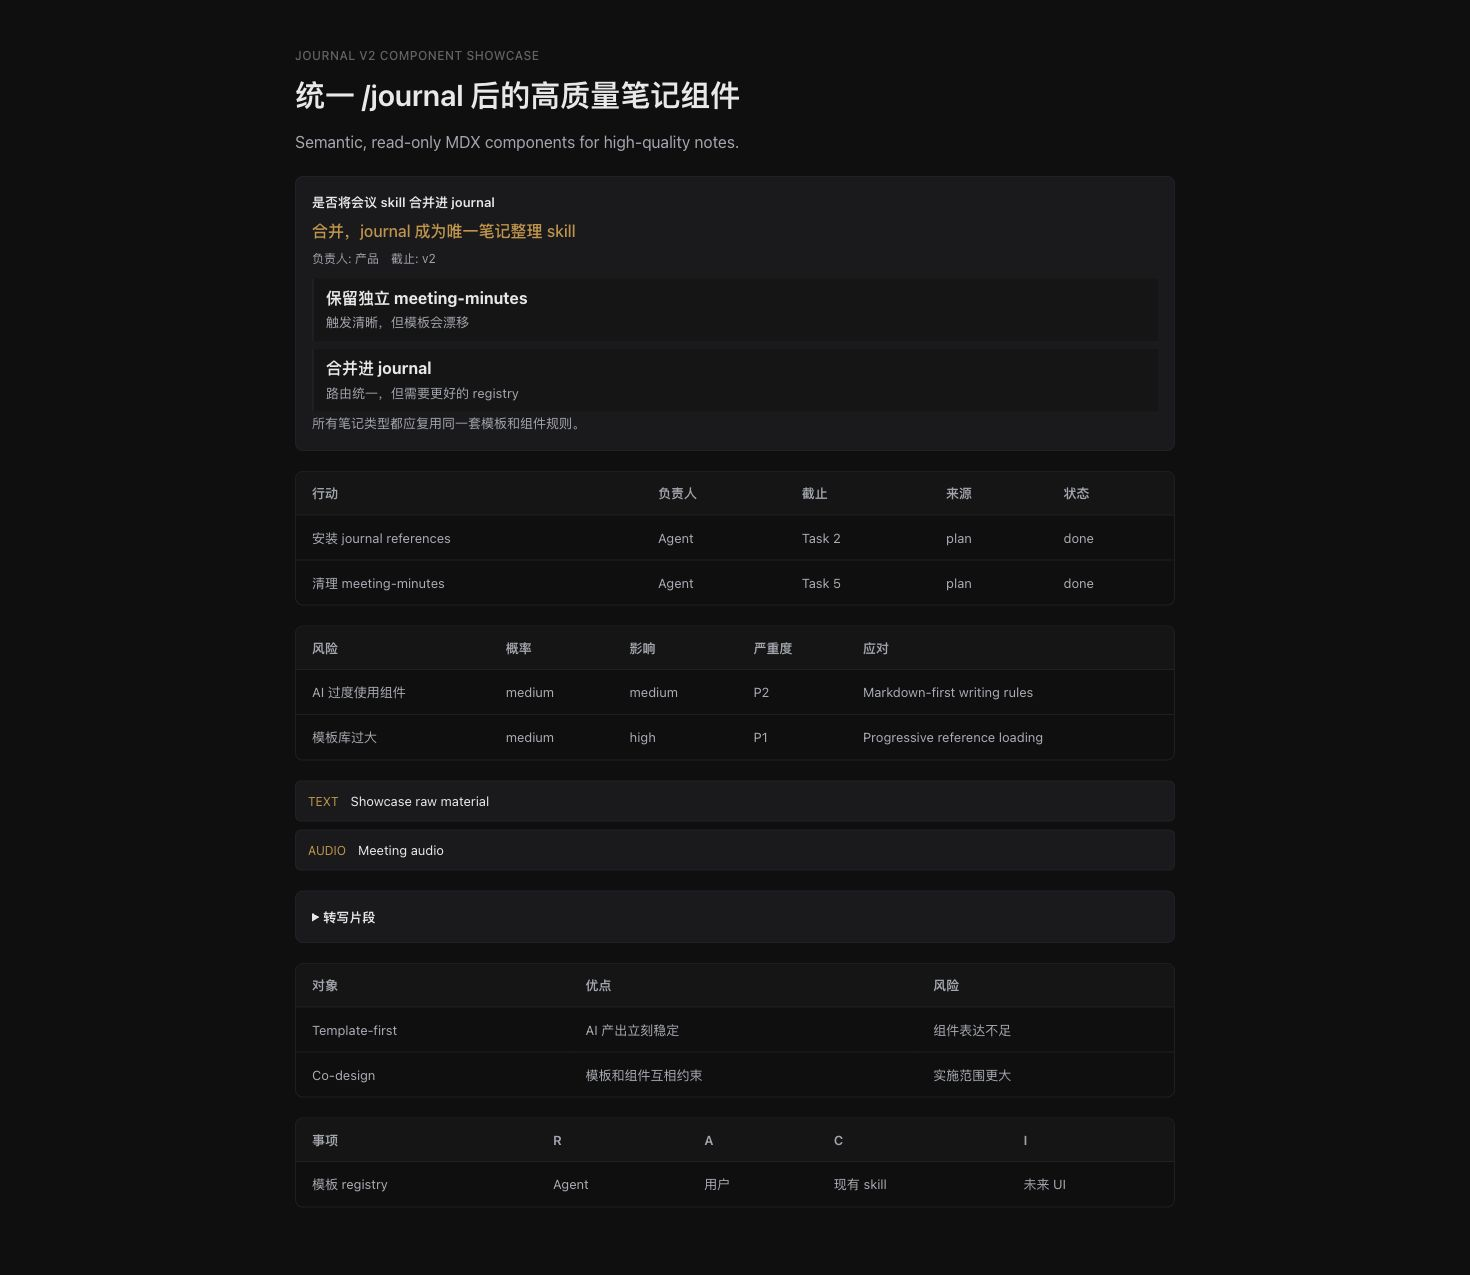
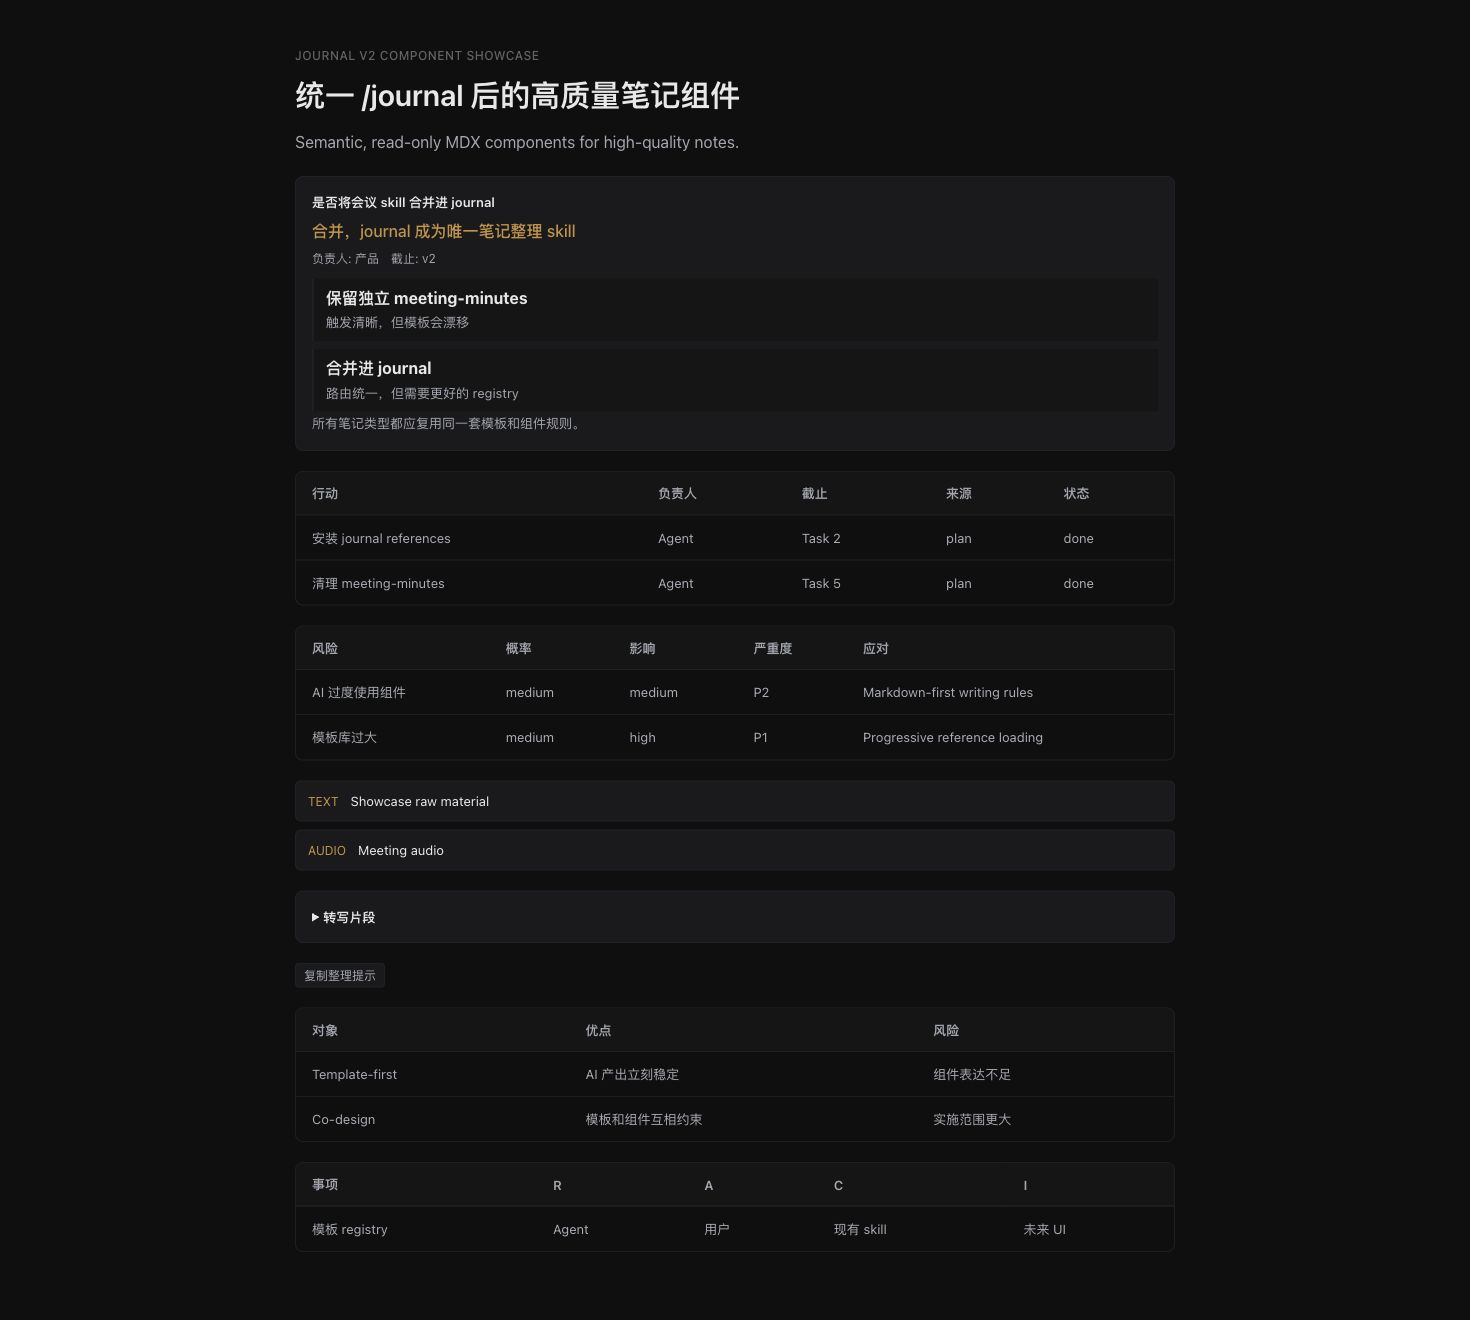
feat: add journal MDX copy affordance

diff --git a/src/tests/MdxRenderer.test.tsx b/src/tests/MdxRenderer.test.tsx
@@ -10,6 +10,8 @@ vi.mock('../lib/tauri', () => ({
   openFile: vi.fn(),
 }))
 
+const writeClipboardText = vi.fn()
+
 const compiledParagraph = `import { jsx as _jsx, jsxs as _jsxs } from "react/jsx-runtime";
 function _createMdxContent(props) {
   const _components = Object.assign({p: "p", strong: "strong"}, props.components);
@@ -51,6 +53,12 @@ describe('mdxRuntime', () => {
 describe('MdxRenderer', () => {
   beforeEach(() => {
     vi.mocked(compileMdx).mockReset()
+    writeClipboardText.mockReset()
+    writeClipboardText.mockResolvedValue(undefined)
+    Object.defineProperty(navigator, 'clipboard', {
+      value: { writeText: writeClipboardText },
+      configurable: true,
+    })
   })
 
   it('renders compiled MDX content', async () => {
@@ -97,5 +105,31 @@ export default MDXContent;`
     expect(handler).toHaveBeenCalled()
     expect(handler.mock.calls[0][0].detail.seconds).toBe(12)
     window.removeEventListener('mdx-media-seek', handler)
+  })
+
+  it('copies read-only MDX text affordances', async () => {
+    const compiledCopy = `import { jsx as _jsx } from "react/jsx-runtime";
+function _createMdxContent() {
+  return _jsx("button", {"data-copy-text": "关键结论", children: "复制"});
+}
+function MDXContent(props = {}) {
+  return _createMdxContent(props);
+}
+export default MDXContent;`
+    vi.mocked(compileMdx).mockResolvedValue(compiledCopy)
+    const handler = vi.fn()
+    window.addEventListener('mdx-copy', handler)
+
+    render(<MdxRenderer content="<button data-copy-text='关键结论'>复制</button>" />)
+
+    await waitFor(() => screen.getByText('复制'))
+    screen.getByText('复制').click()
+
+    await waitFor(() => {
+      expect(writeClipboardText).toHaveBeenCalledWith('关键结论')
+    })
+    expect(handler).toHaveBeenCalled()
+    expect(handler.mock.calls[0][0].detail.text).toBe('关键结论')
+    window.removeEventListener('mdx-copy', handler)
   })
 })

diff --git a/src/components/MdxRenderer.tsx b/src/components/MdxRenderer.tsx
@@ -117,7 +117,27 @@ export function MdxRenderer({ content, entryPath }: Props) {
 
   const handleClick = useCallback(
     async (e: React.MouseEvent<HTMLDivElement>) => {
-      const anchor = (e.target as HTMLElement).closest('a')
+      const target = e.target as HTMLElement
+      const copyControl = target.closest<HTMLElement>('[data-copy-text]')
+      if (copyControl) {
+        e.preventDefault()
+        const text = copyControl.getAttribute('data-copy-text') ?? ''
+        let copied = false
+        try {
+          await navigator.clipboard?.writeText(text)
+          copied = true
+        } catch {
+          copied = false
+        }
+        window.dispatchEvent(
+          new CustomEvent('mdx-copy', {
+            detail: { text, copied },
+          }),
+        )
+        return
+      }
+
+      const anchor = target.closest('a')
       if (!anchor) return
 
       const mediaSrc = anchor.getAttribute('data-media-src')

diff --git a/src/tests/MdxSemanticComponents.test.tsx b/src/tests/MdxSemanticComponents.test.tsx
@@ -2,6 +2,7 @@ import { describe, expect, it } from 'vitest'
 import { fireEvent, render, screen } from '@testing-library/react'
 import {
   ActionTable,
+  CopyButton,
   DecisionRecord,
   RiskMatrix,
   StatusBadge,
@@ -125,6 +126,13 @@ describe('semantic MDX components', () => {
     expect(screen.getByText('张三')).toBeTruthy()
     expect(screen.getByText('这里需要先试点。')).toBeTruthy()
     expect(screen.getByText('跳到 00:12')).toBeTruthy()
+  })
+
+  it('renders a copy affordance without editing note content', () => {
+    render(<CopyButton text="关键结论" label="复制结论" />)
+
+    const button = screen.getByRole('button', { name: '复制结论' })
+    expect(button.getAttribute('data-copy-text')).toBe('关键结论')
   })
 
   it('allows transcript details to expand and collapse', () => {

diff --git a/src/styles/mdx.css b/src/styles/mdx.css
@@ -1497,6 +1497,28 @@
   text-decoration: none;
   border-bottom: 1px solid color-mix(in srgb, var(--mdx-accent) 28%, transparent);
 }
+.mdx-copy-button {
+  display: inline-flex;
+  align-items: center;
+  min-height: 24px;
+  padding: 3px 8px;
+  border: 1px solid var(--mdx-border);
+  border-radius: 4px;
+  background: var(--mdx-surface);
+  color: var(--text-secondary);
+  font: inherit;
+  font-size: var(--text-xs);
+  cursor: pointer;
+  transition:
+    border-color 0.18s var(--ease-out),
+    color 0.18s var(--ease-out),
+    background-color 0.18s var(--ease-out);
+}
+.mdx-copy-button:hover {
+  border-color: color-mix(in srgb, var(--mdx-accent) 40%, var(--mdx-border));
+  color: var(--mdx-accent);
+  background: var(--mdx-surface-muted);
+}
 .mdx-transcript {
   margin: var(--space-5) 0;
   padding: var(--space-4);

diff --git a/src/components/mdx/index.ts b/src/components/mdx/index.ts
@@ -60,7 +60,7 @@ export {
 } from './semantic'
 
 // Sources and transcripts
-export { SourceCard, ReferenceList, Transcript, TimestampLink } from './source'
+export { SourceCard, ReferenceList, Transcript, TimestampLink, CopyButton } from './source'
 
 // ── Component map ─────────────────────────────────────────
 
@@ -102,7 +102,7 @@ import {
   EvidenceCard,
   QuoteCard,
 } from './semantic'
-import { SourceCard, ReferenceList, Transcript, TimestampLink } from './source'
+import { SourceCard, ReferenceList, Transcript, TimestampLink, CopyButton } from './source'
 
 export const mdxComponents = {
   Split,
@@ -170,4 +170,5 @@ export const mdxComponents = {
   ReferenceList,
   Transcript,
   TimestampLink,
+  CopyButton,
 }

diff --git a/src/components/mdx/source.tsx b/src/components/mdx/source.tsx
@@ -46,6 +46,22 @@ export function TimestampLink({
   )
 }
 
+export function CopyButton({
+  text,
+  label = '复制',
+  children,
+}: {
+  text: string
+  label?: string
+  children?: ReactNode
+}) {
+  return (
+    <button type="button" className="mdx-copy-button" data-copy-text={text}>
+      {children ?? label}
+    </button>
+  )
+}
+
 export interface TranscriptItem {
   speaker?: string
   time?: string

diff --git a/.agents/skills/journal/references/component-catalog.md b/.agents/skills/journal/references/component-catalog.md
@@ -2,29 +2,30 @@
 
 ## Existing Generic Components
 
-| Group | Components |
-|---|---|
-| Typography | `Section`, `Subtitle`, `Label`, `Divider` |
-| Layout | `Split`, `Columns`, `Column`, `Grid`, `Col`, `Flow`, `Stack` |
-| Display | `Stat`, `StatGroup`, `Table`, `Timeline`, `TagList`, `Progress`, `Avatar`, `AvatarGroup` |
-| Lists and cards | `Cards`, `Card`, `Options`, `Option`, `Kanban`, `Checklist`, `Counter`, `RatingBar` |
-| Context | `Callout`, `Quote`, `RelatedEntry`, `RelatedIdentity` |
+| Group              | Components                                                                                                                                                    |
+| ------------------ | ------------------------------------------------------------------------------------------------------------------------------------------------------------- |
+| Typography         | `Section`, `Subtitle`, `Label`, `Divider`                                                                                                                     |
+| Layout             | `Split`, `Columns`, `Column`, `Grid`, `Col`, `Flow`, `Stack`                                                                                                  |
+| Display            | `Stat`, `StatGroup`, `Table`, `Timeline`, `TagList`, `Progress`, `Avatar`, `AvatarGroup`                                                                      |
+| Lists and cards    | `Cards`, `Card`, `Options`, `Option`, `Kanban`, `Checklist`, `Counter`, `RatingBar`                                                                           |
+| Context            | `Callout`, `Quote`, `RelatedEntry`, `RelatedIdentity`                                                                                                         |
 | Media and diagrams | `AudioCard`, `VideoCard`, `ImageViewer`, `FileCard`, `BarChart`, `LineChart`, `PieChart`, `RadarChart`, `Mermaid`, `CanvasDiagram`, `Phone`, `DeviceShowcase` |
 
 ## Semantic Components
 
-| Component | Use when |
-|---|---|
-| `ActionTable` | actions have owner, deadline, source, or status |
-| `DecisionRecord`, `DecisionList` | a note must preserve decision context and tradeoffs |
-| `RiskMatrix` | risks need likelihood, impact, severity, and mitigation |
-| `SourceCard`, `ReferenceList` | source traceability is important |
-| `Transcript`, `TimestampLink` | transcript excerpts or media timestamps matter |
-| `InsightCard`, `EvidenceCard`, `QuoteCard` | research, learning, interview, and evidence-heavy notes |
-| `ComparisonMatrix`, `OptionMatrix` | evaluating products, options, competitors, or technical approaches |
-| `MilestoneTimeline`, `IncidentTimeline` | project milestones or incidents need sequence |
-| `RACI` | project or operation roles must be explicit |
-| `StatusBadge` | compact state labels improve scanning |
+| Component                                  | Use when                                                                                        |
+| ------------------------------------------ | ----------------------------------------------------------------------------------------------- |
+| `ActionTable`                              | actions have owner, deadline, source, or status                                                 |
+| `DecisionRecord`, `DecisionList`           | a note must preserve decision context and tradeoffs                                             |
+| `RiskMatrix`                               | risks need likelihood, impact, severity, and mitigation                                         |
+| `SourceCard`, `ReferenceList`              | source traceability is important                                                                |
+| `Transcript`, `TimestampLink`              | transcript excerpts or media timestamps matter                                                  |
+| `CopyButton`                               | exact quotes, prompts, commands, or reusable snippets should be copied without editing the note |
+| `InsightCard`, `EvidenceCard`, `QuoteCard` | research, learning, interview, and evidence-heavy notes                                         |
+| `ComparisonMatrix`, `OptionMatrix`         | evaluating products, options, competitors, or technical approaches                              |
+| `MilestoneTimeline`, `IncidentTimeline`    | project milestones or incidents need sequence                                                   |
+| `RACI`                                     | project or operation roles must be explicit                                                     |
+| `StatusBadge`                              | compact state labels improve scanning                                                           |
 
 ## Rule
 

diff --git a/src-tauri/resources/workspace-template/.claude/skills/journal/references/component-catalog.md b/src-tauri/resources/workspace-template/.claude/skills/journal/references/component-catalog.md
@@ -2,29 +2,30 @@
 
 ## Existing Generic Components
 
-| Group | Components |
-|---|---|
-| Typography | `Section`, `Subtitle`, `Label`, `Divider` |
-| Layout | `Split`, `Columns`, `Column`, `Grid`, `Col`, `Flow`, `Stack` |
-| Display | `Stat`, `StatGroup`, `Table`, `Timeline`, `TagList`, `Progress`, `Avatar`, `AvatarGroup` |
-| Lists and cards | `Cards`, `Card`, `Options`, `Option`, `Kanban`, `Checklist`, `Counter`, `RatingBar` |
-| Context | `Callout`, `Quote`, `RelatedEntry`, `RelatedIdentity` |
+| Group              | Components                                                                                                                                                    |
+| ------------------ | ------------------------------------------------------------------------------------------------------------------------------------------------------------- |
+| Typography         | `Section`, `Subtitle`, `Label`, `Divider`                                                                                                                     |
+| Layout             | `Split`, `Columns`, `Column`, `Grid`, `Col`, `Flow`, `Stack`                                                                                                  |
+| Display            | `Stat`, `StatGroup`, `Table`, `Timeline`, `TagList`, `Progress`, `Avatar`, `AvatarGroup`                                                                      |
+| Lists and cards    | `Cards`, `Card`, `Options`, `Option`, `Kanban`, `Checklist`, `Counter`, `RatingBar`                                                                           |
+| Context            | `Callout`, `Quote`, `RelatedEntry`, `RelatedIdentity`                                                                                                         |
 | Media and diagrams | `AudioCard`, `VideoCard`, `ImageViewer`, `FileCard`, `BarChart`, `LineChart`, `PieChart`, `RadarChart`, `Mermaid`, `CanvasDiagram`, `Phone`, `DeviceShowcase` |
 
 ## Semantic Components
 
-| Component | Use when |
-|---|---|
-| `ActionTable` | actions have owner, deadline, source, or status |
-| `DecisionRecord`, `DecisionList` | a note must preserve decision context and tradeoffs |
-| `RiskMatrix` | risks need likelihood, impact, severity, and mitigation |
-| `SourceCard`, `ReferenceList` | source traceability is important |
-| `Transcript`, `TimestampLink` | transcript excerpts or media timestamps matter |
-| `InsightCard`, `EvidenceCard`, `QuoteCard` | research, learning, interview, and evidence-heavy notes |
-| `ComparisonMatrix`, `OptionMatrix` | evaluating products, options, competitors, or technical approaches |
-| `MilestoneTimeline`, `IncidentTimeline` | project milestones or incidents need sequence |
-| `RACI` | project or operation roles must be explicit |
-| `StatusBadge` | compact state labels improve scanning |
+| Component                                  | Use when                                                                                        |
+| ------------------------------------------ | ----------------------------------------------------------------------------------------------- |
+| `ActionTable`                              | actions have owner, deadline, source, or status                                                 |
+| `DecisionRecord`, `DecisionList`           | a note must preserve decision context and tradeoffs                                             |
+| `RiskMatrix`                               | risks need likelihood, impact, severity, and mitigation                                         |
+| `SourceCard`, `ReferenceList`              | source traceability is important                                                                |
+| `Transcript`, `TimestampLink`              | transcript excerpts or media timestamps matter                                                  |
+| `CopyButton`                               | exact quotes, prompts, commands, or reusable snippets should be copied without editing the note |
+| `InsightCard`, `EvidenceCard`, `QuoteCard` | research, learning, interview, and evidence-heavy notes                                         |
+| `ComparisonMatrix`, `OptionMatrix`         | evaluating products, options, competitors, or technical approaches                              |
+| `MilestoneTimeline`, `IncidentTimeline`    | project milestones or incidents need sequence                                                   |
+| `RACI`                                     | project or operation roles must be explicit                                                     |
+| `StatusBadge`                              | compact state labels improve scanning                                                           |
 
 ## Rule
 

diff --git a/.agents/skills/journal/references/component-recipes.md b/.agents/skills/journal/references/component-recipes.md
@@ -46,9 +46,7 @@ Use `IncidentTimeline` plus `RiskMatrix`.
 
 ```mdx
 <IncidentTimeline
-  items={[
-    { time: '10:12', title: '告警触发', impact: '导入任务排队时间超过 10 分钟' },
-  ]}
+  items={[{ time: '10:12', title: '告警触发', impact: '导入任务排队时间超过 10 分钟' }]}
 />
 ```
 
@@ -63,4 +61,12 @@ Use `ReferenceList` near the end when a note relies on multiple sources.
     { path: '2605/raw/notes.txt', label: '粘贴文本', type: 'text' },
   ]}
 />
+```
+
+## Copyable Exact Text
+
+Use `CopyButton` only for exact snippets that the reader is likely to reuse, such as prompts, commands, or canonical wording. Never use it to mutate journal content.
+
+```mdx
+<CopyButton text="请基于这段会议素材整理决策、行动项和风险" label="复制整理提示" />
 ```

diff --git a/src-tauri/resources/workspace-template/.claude/skills/journal/references/component-recipes.md b/src-tauri/resources/workspace-template/.claude/skills/journal/references/component-recipes.md
@@ -46,9 +46,7 @@ Use `IncidentTimeline` plus `RiskMatrix`.
 
 ```mdx
 <IncidentTimeline
-  items={[
-    { time: '10:12', title: '告警触发', impact: '导入任务排队时间超过 10 分钟' },
-  ]}
+  items={[{ time: '10:12', title: '告警触发', impact: '导入任务排队时间超过 10 分钟' }]}
 />
 ```
 
@@ -63,4 +61,12 @@ Use `ReferenceList` near the end when a note relies on multiple sources.
     { path: '2605/raw/notes.txt', label: '粘贴文本', type: 'text' },
   ]}
 />
+```
+
+## Copyable Exact Text
+
+Use `CopyButton` only for exact snippets that the reader is likely to reuse, such as prompts, commands, or canonical wording. Never use it to mutate journal content.
+
+```mdx
+<CopyButton text="请基于这段会议素材整理决策、行动项和风险" label="复制整理提示" />
 ```
